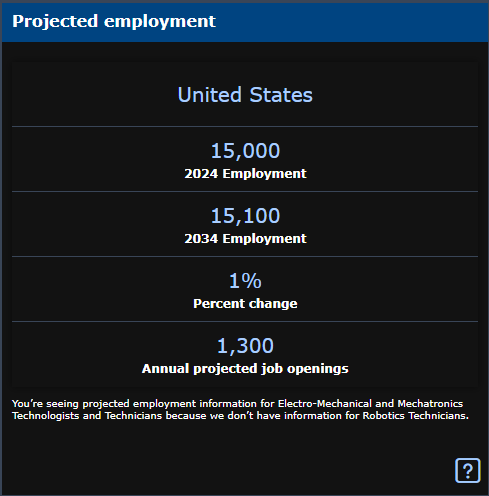
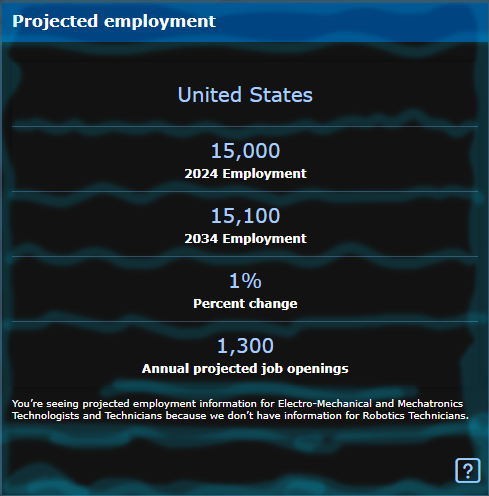
almost finished

diff --git a/style.css b/style.css
@@ -1,18 +1,20 @@
-html {background-color: black; width: 100%; height: 100%}
-header {color: rgb(127, 127, 133); padding: 1%; width: 98%; display: flex; align-items: center; justify-content: space-between; gap: 2%;}
+html {background-color: rgba(0, 0, 0, 1); width: 100%; height: 100%}
+header {color: rgba(127, 127, 133, 1); padding: 1%; width: 98%; display: flex; align-items: center; justify-content: space-between; gap: 2%;}
 h1 {width: auto; margin: 0; padding: 1%; font-size: clamp(1.25rem, 3vw, 2rem);}
-nav {color: rgb(127, 127, 133); font-style: italic; padding: 1%; font-size: clamp(0.7rem, 1.25vw, 2rem); line-height: 1.5; text-align: right; flex: 1; width: 70%}
+nav {color: rgba(127, 127, 133, 1); font-style: italic; padding: 1%; font-size: clamp(0.7rem, 1.25vw, 2rem); line-height: 1.5; text-align: right; flex: 1; width: 70%}
 main {padding: 2%; height: 100%; display: flex; justify-content: center; align-items: center;}
-article {height: 100%; width: 60%; background-color: black; color: black; float: none; padding: 1%; margin: 0 auto; box-sizing: border-box;}
-.btn {color: rgb(127, 127, 133); text-decoration-style: dashed;}
-.btn:hover {color:hotpink; text-decoration: line-through;}
-.secret-btn {display: inline-block; padding: 0.6rem 1rem; background-color: black; color: grey; text-decoration: none; border-radius: 0.25rem;}
-.secret-btn:hover {background-color: black; color: grey; text-decoration: none;}
-#shadow {box-shadow: 5px 5px 10px 5px aqua;}
-img {float: right;}
+.btn {color: rgba(127, 127, 133, 1); text-decoration-style: dashed;}
+.btn:hover {color: rgba(255, 105, 180, 1); text-decoration: line-through;}
+.secret-btn {display: inline-block; padding: 0.6rem 1rem; background-color: rgba(0, 0, 0, 1); color: rgba(128, 128, 128, 1); text-decoration: none; border-radius: 0.25rem;}
+.secret-btn:hover {background-color: rgba(0, 0, 0, 1); color: rgba(128, 128, 128, 1); text-decoration: none;}
+#shadow {box-shadow: 5px 5px 10px 5px rgba(0, 255, 255, 1);}
+.img1 {float: right;}
+article img {display: block; margin: 0 auto;}
 .sec {display: block; float: none; margin: 0 auto; max-width: 100%;}
-h2 {width: auto; margin: 0; padding: 1%; font-size: clamp(1.25rem, 3vw, 2rem); color: grey; text-align: center;}
-p {width: auto; margin: 0; padding: 1%; font-size: clamp(1.25rem, 3vw, 2rem); color: grey; text-align: center;}
-.full {width: 90%; height: 100%; align-self: center; margin: 0 auto; text-align: center;}
-a {color: grey}
-li {color: grey; font-size: clamp(1.25rem, 3vw, 2rem); list-style-position: inside;}
+h2 {width: auto; margin: 0; padding: 1%; font-size: clamp(1.25rem, 3vw, 2rem); color: rgba(128, 128, 128, 1); text-align: center;}
+p {width: auto; margin: 0; padding: 1%; font-size: clamp(1.25rem, 3vw, 2rem); color: rgba(128, 128, 128, 1); text-align: center;}
+.full {width: 90%; height: 80%; align-self: center; margin: 0 auto; text-align: center;}
+.left {height: 100%; width: 45%; background-color: rgba(0, 0, 0, 1); color: rgba(0, 0, 0, 1); float: left; padding: 1%; margin: 0 auto; box-sizing: border-box;}
+.right {height: 100%; width: 45%; background-color: rgba(0, 0, 0, 1); color: rgba(0, 0, 0, 1); float: right; padding: 1%; margin: 0 auto; box-sizing: border-box;}
+a {color: rgba(128, 128, 128, 1)}
+li {color: rgba(128, 128, 128, 1); font-size: clamp(0.9rem, 2vw, 1.6rem); list-style-position: inside;}

diff --git a/index.html b/index.html
@@ -16,17 +16,19 @@
             </nav>
         </header>
         <Main>
-            <article id="shadow">
+            <article class="left" id="shadow">
                 <h2>Why I chose Robotic Technician</h2>
                 <p>
                     Since I was young I have wanted to be a Inventor/Engineer to create robots and mechs with my origninal intrest coming
-                     from Transforms and growing with Pasific Rim and TitanFall 2. Being a Robotic Tech is my dream as I get to
-                    accomplish making and up keeping robots.</p>
-                <p>
-
+                     from Transforms and growing with Pasific Rim and TitanFall 2. 
+                     These movies and games inspired me to want make mechs and robots for every day life and for war.</p>
+                <p><br>
+                    Robotic Technician is a job that deals with robots and techology, so I could learn alot about them to the point
+                     I could make my own, my goal is incredably difficult and will take years to accomplish but I won't give up,
+                     and someday I hope to accomplish my goal.
                 </p>
             </article>
-            <img id="shadow" src="Robotic-Engineers.jpg" alt="Chase O'B" width="35%" >
+            <img class="img1" id="shadow" src="Robotic-Engineers.jpg" alt="Chase O'B" width="45%" >
         </Main>
     </body>
 </html>

diff --git a/skills.html b/skills.html
@@ -20,8 +20,17 @@
                 <h2>Personal Skills</h2>
                 <ul type="square">
                     <li>Leadership</li>
+                       <p>I can take command and tell the correct people the right thing to do when needed. I'll use JROTC as a example,
+                         in the program we will do team building where we have to cross an obsticle with big wooden beams so I'll know 
+                         who my strong people are and acrobatic people and have them go last, because i know they can cross without help 
+                         and pick up the beams without help.</p>
                     <br><li>Time Managment</li>
-                    <br><li>Flexability</li>
+                        <p>I always like to have a time for everything that way I can plan when to leave or get ready and I stick to my
+                         time plan the only time I'm bad at time mangement is when I have to get up early.</p>
+                    <br><li>Adapibility</li>
+                        <p>In new situations I haven't been in I will take time to adapt and figure out how to handle the situation. 
+                            Sometimes I do need help or another mind so if anyone has another idea I'll listen to it even if I have 
+                            authoritiy over them. </p>
                 </ul>
             </article>
         </main>

diff --git a/potential.html b/potential.html
@@ -16,17 +16,20 @@
             </nav>
         </header>
         <main>
-            <article id="shadow">
+            <article id="shadow" class="left">
                 <h2>Job Market</h2>
                 <p>
                     The job market is poor with below average job openings and only about 1,300 predicted new jobs in the next 10 years
                 </p>
-                <h2>Earning Potential</h2>
+                <img src="market.png" id="shadow" width="80%">
+            </article>
+            <article id="shadow" class="right">
+                 <h2>Earning Potential</h2>
                 <p>
                     As a Robotic Technician you can make ~$47,000 on the low end, ~$73,000 as a median, & ~$110,000 on the high end
                 </p>
+                <img src="pay.png" id="shadow" width="90%">
             </article>
-            <img src="pay.png" id="shadow" width="30%">
         </main>
     </body>
 </html>

diff --git a/training.html b/training.html
@@ -16,7 +16,7 @@
             </nav>
         </header>
          <main>
-            <article id="shadow" class="full">
+            <article id="shadow" class="left">
                 <h2>Training & Education Needed</h2>
                 <p>People starting in this career usually have: </p>
                 <ul type="square">
@@ -33,6 +33,7 @@
                     <li>Mathmatics</li>
                 </ul>
             </article>
+            <img src="degree.png" id="shadow" alt="education" width="50%">
         </main>
     </body>
 </html>

diff --git a/resume.html b/resume.html
@@ -19,7 +19,7 @@
             <article id="shadow" class="full">
                 <h2>Resume</h2>
                 <p><a class="btn" href="png2pdf.pdf" target="_blank">Open Resume PDF</a></p>
-                <embed src="png2pdf.pdf" type="application/pdf" width="60%" height="85%">
+                <img src="Resume.png" id="shadow" width="25%">
             </article>
         </main>
     </body>
